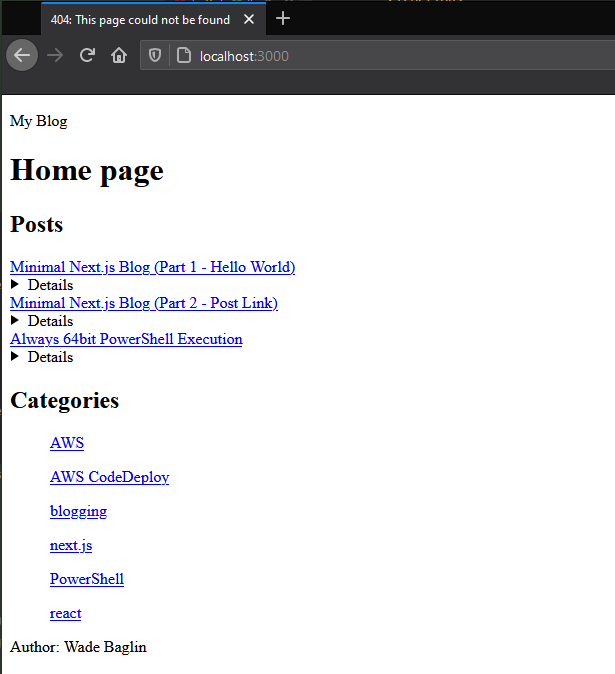
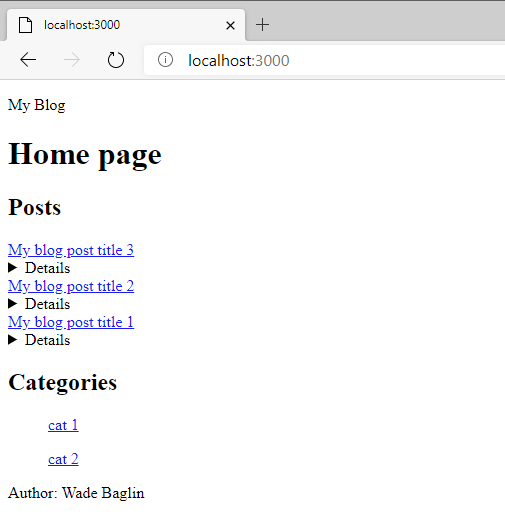
Minor content tweaks

Changed region(s): [[0.0, 0.0, 1.0, 1.0]]

diff --git a/posts/minimal-nextjs-blog-part2-post-links.md b/posts/minimal-nextjs-blog-part2-post-links.md
@@ -16,7 +16,7 @@ Part 2 is about rendering a list of links to posts to the browser screen. Althou
 
 ## Static Props (Pre-work)
 
-What exactly are static props? The official docs can be read [here](https://nextjs.org/docs/basic-features/data-fetching#getstaticprops-static-generation) but to summarise it, I can use static props to gather data at build (webpack) time, which in the case of this blog will be reading and processing of files from the file system. However, if I wasn't building a filesystem based blog, this could be querying a database or API etc.
+What exactly are static props? The official docs can be read [here](https://nextjs.org/docs/basic-features/data-fetching#getstaticprops-static-generation), but to summarise it, I can use static props to gather data at build (webpack) time, which in the case of this blog will be reading and processing of files from the file system. However, if I wasn't building a filesystem based blog, this could be querying a database or API etc.
 
 To do this, I'll add a getStaticProps function to the `index.tsx` file. Although before I do that, I'll define a few types, and I'll update my IndexPage component to render both a list of post links and post categories.
 
@@ -93,7 +93,7 @@ const IndexPage = (props: IIndexProps) => {
 }
 ```
 
-As you can see, I take the input and create two collections, one being a distinct list of categories, and the other is all the posts order by their date descending. Then I simply render it to the screen. I'm not going to lie, it's not going to be pretty 😀, but it will be functional, and I'll do all the UI work in one step once I have everything working.
+As you can see, I take the input and create two collections, one being a distinct list of categories, and the other is all the posts order by their date descending. Then I simply render it to the screen. I'm not going to lie, it's not going to be pretty 😀, but it will be functional. I'll do all the UI work in one step, later on, once I have everything working.
 
 ## Static Props
 
@@ -121,21 +121,9 @@ export const getStaticProps: GetStaticProps = async (): Promise<{ props: IIndexP
 }
 ```
 
-In this function, I simply query the file system for all files under the `/posts` directory and then parse the matadata content to create the props object. There's nothing here that's all that complex, but as you can see getStaticProps is a powerful feature. 
+In this function, I simply query the file system for all files under the `./posts` directory and then parse the metadata content to create the props object. There's nothing here that's all that complex, but as you can see getStaticProps is a powerful feature. 
 
-With all this combined, my browser page now looks like this:
-
-![web screenshot](/minimal-nextjs-blog-part2-post-links/web-screenshot.png)
-
-## How does this work
-
-When processing the files found under the `/posts` directory, I use Gray Matter to parse the files into Metadata and Content. See:
-
-```ts
-const { data, content } = matter(readFileSync(path))
-```
-
-To supply the metadata I define it in the top of each blog post file. For example, here's a sample blog post:
+I'll quickly add a smaple blog post, as I imagine testing without one will be somewhat hard. So I'll a few of these with different dates for testing purposes.
 
 ```text
 ---
@@ -158,6 +146,34 @@ Some markdown blog post
 A [link](#)
 ```
 
+With all this combined, if run the dev server and refresh my browser page, it now looks like this.
+
+![web screenshot](/minimal-nextjs-blog-part2-post-links/web-screenshot.png)
+
+## How does this work
+
+When processing the files found under the `/posts` directory, I use Gray Matter to parse the files into Metadata and Content.
+
+```ts
+const { data, content } = matter(readFileSync(path))
+```
+
+To supply the metadata I define it in the top of each blog post file. For example, here's the metadata from my sample blog post.
+
+```text
+---
+title: My blog post title
+slug: my-blog-post-slug
+date: August 7, 2020
+snippet: This is a blog post snippet (optional)
+categories:
+  - cat 1
+  - cat 2
+---
+```
+
+And the rest of the post is the content, in the format of markdown.
+
 That's it, such a simple way of writing a blog post - no database required.
 
 ---
@@ -169,10 +185,11 @@ In [part 3](/posts/minimal-nextjs-blog-part3-show-post) I'll be rendering a sing
 **The full source for /pages/index.tsx**
 
 ```ts
-import Link from "next/link";
-import { GetStaticProps } from "next";
-import { readdir, readFileSync } from "fs-extra";
-import matter from "gray-matter";
+import React from 'react'
+import Link from 'next/link'
+import { GetStaticProps } from 'next'
+import { readdir, readFileSync } from 'fs-extra'
+import matter from 'gray-matter'
 
 export interface IBlogMetadata {
   title: string
@@ -188,10 +205,10 @@ interface IIndexProps {
 
 const IndexPage = (props: IIndexProps) => {
   const distinctCategories = props.blogs
-  .map((blogMetadata) => blogMetadata.categories)
-  .reduce((acc, val) => ([...acc, ...val]))
-  .filter((value, index, self) => self.indexOf(value) === index)
-  .sort((catA: string, catB: string) => catA.localeCompare(catB))
+    .map((blogMetadata) => blogMetadata.categories)
+    .reduce((acc, val) => [...acc, ...val])
+    .filter((value, index, self) => self.indexOf(value) === index)
+    .sort((catA: string, catB: string) => catA.localeCompare(catB))
 
   const sortedPosts = props.blogs.sort((blogA, blogB) => new Date(blogB.date).getTime() - new Date(blogA.date).getTime())
 
@@ -236,12 +253,18 @@ export default IndexPage
 export const getStaticProps: GetStaticProps = async (): Promise<{ props: IIndexProps }> => {
   const files = await readdir(`${process.cwd()}/posts`)
   const blogs = files
-  .filter((fileName: string) => fn.endsWith('.md'))
-  .map((fileName: string) => {
-    const path = `${process.cwd()}/posts/${fileName}`
-    const { data } = matter(readFileSync(path))
-    return { title: data['title'], snippet: data['snippet'] ?? '', slug: data['slug'], categories: data['categories'] ?? [], date: data['date']  }
-  })
+    .filter((fileName: string) => fileName.endsWith('.md'))
+    .map((fileName: string) => {
+      const path = `${process.cwd()}/posts/${fileName}`
+      const { data } = matter(readFileSync(path))
+      return {
+        title: data['title'],
+        snippet: data['snippet'] ?? '',
+        slug: data['slug'],
+        categories: data['categories'] ?? [],
+        date: data['date']
+      }
+    })
   return {
     props: { blogs }
   }

diff --git a/posts/minimal-nextjs-blog-part1-hello-world.md b/posts/minimal-nextjs-blog-part1-hello-world.md
@@ -139,7 +139,7 @@ Then add my configuration to the `.prettierrc.json` file along with my own prefe
 
 ```json
 {
-  "semi":  true,
+  "semi":  false,
   "trailingComma":  "none",
   "singleQuote":  true,
   "printWidth":  140,
